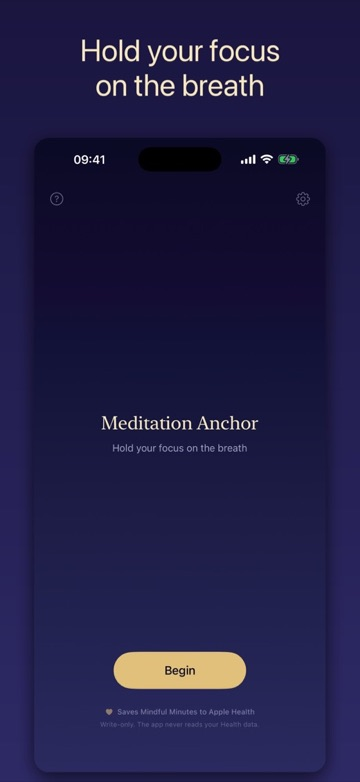
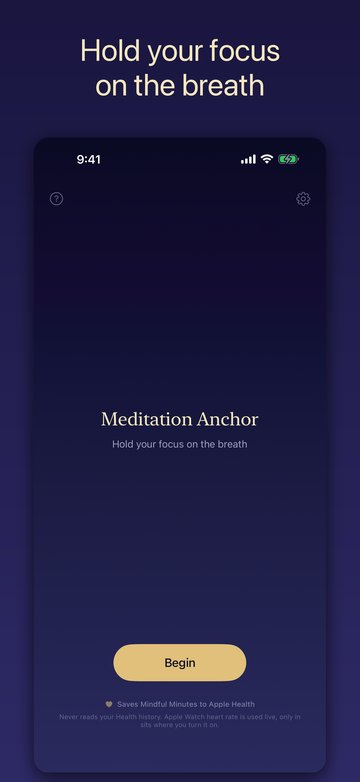
Apps: heart-rate and journal screenshots and copy for the 1.1.0 releases
Claude-Session: https://claude.ai/code/session_012F1Lc5MhU7keZ3y3HHBE32

diff --git a/index.html b/index.html
@@ -231,14 +231,14 @@
           <img class="app-icon" src="apps/meditation-anchor.png" alt="Meditation Anchor app icon" width="96" height="96">
           <div class="meta">
             <h3>Meditation Anchor</h3>
-            <p class="sub">A soft tick on each out-breath, and a bell every eighth, to bring a wandering mind back to the breath.</p>
+            <p class="sub">A soft tick on each out-breath, and a bell every eighth, to bring a wandering mind back to the breath. With an Apple Watch, see your heart rate settle, charted after every sit.</p>
             <p class="formats">iPhone &middot; Free to download &middot; 7-day free trial</p>
             <a class="buy" href="https://apps.apple.com/us/app/meditation-anchor-helps-focus/id6763665393" target="_blank" rel="noopener">Download on the App Store</a>
           </div>
           <div class="shots">
             <img src="apps/shots/ma-01-idle.jpg" alt="Meditation Anchor start screen" loading="lazy" width="360" height="782">
             <img src="apps/shots/ma-02-sit.jpg" alt="Meditation Anchor during a sitting, counting breaths and cycles" loading="lazy" width="360" height="782">
-            <img src="apps/shots/ma-04-summary.jpg" alt="Meditation Anchor session summary" loading="lazy" width="360" height="782">
+            <img src="apps/shots/ma-07-heart.jpg" alt="Meditation Anchor summary with heart-rate and breathing-pace charts" loading="lazy" width="360" height="782">
           </div>
         </article>
 
@@ -246,14 +246,14 @@
           <img class="app-icon" src="apps/way-of-insight.png" alt="Way of Insight app icon" width="96" height="96">
           <div class="meta">
             <h3>Way of Insight</h3>
-            <p class="sub">The companion to the book: its seven Systematic Progressing programs, timed and guided by the bell, from Metta and the breath to insight.</p>
+            <p class="sub">The companion to the book: its seven Systematic Progressing programs, timed and guided by the bell, from Metta and the breath to insight. A detailed meditation journal that takes a minute to keep, with your Apple Watch heart rate charted if you like.</p>
             <p class="formats">iPhone &middot; Free to download &middot; 7-day free trial</p>
             <a class="buy" href="https://apps.apple.com/us/app/way-of-insight/id6832348129" target="_blank" rel="noopener">Download on the App Store</a>
           </div>
           <div class="shots">
             <img src="apps/shots/woi-01-home.jpg" alt="Way of Insight practice screen with today's sitting" loading="lazy" width="360" height="782">
-            <img src="apps/shots/woi-05-path.jpg" alt="Way of Insight path of seven programs" loading="lazy" width="360" height="782">
-            <img src="apps/shots/woi-04-checkin.jpg" alt="Way of Insight check-in after a sitting" loading="lazy" width="360" height="782">
+            <img src="apps/shots/woi-07-journal.jpg" alt="Way of Insight meditation journal" loading="lazy" width="360" height="782">
+            <img src="apps/shots/woi-08-heart.jpg" alt="Way of Insight check-in with a heart-rate chart" loading="lazy" width="360" height="782">
           </div>
         </article>
 

diff --git a/CLAUDE.md b/CLAUDE.md
@@ -182,3 +182,4 @@ At the end of every session, update this Current State section to reflect progre
   submit/page-jump; node --check the script before shipping.)
 - Email Routing LIVE (hello@ -> Gmail). Morning-coffee cover fixed (2:3).
 - HTTPS verified: Let's Encrypt cert approved, https_enforced=true, http->https. NOTHING outstanding.
+- 2026-11-16: app cards updated for the 1.1.0 releases: Meditation Anchor mentions Apple Watch heart rate, shots idle/sit/heart (ma-07-heart); Way of Insight sells the journal + heart rate, shots home/journal/heart (woi-07-journal, woi-08-heart). Shots regenerated from the apps' screenshots/ dirs (en).
